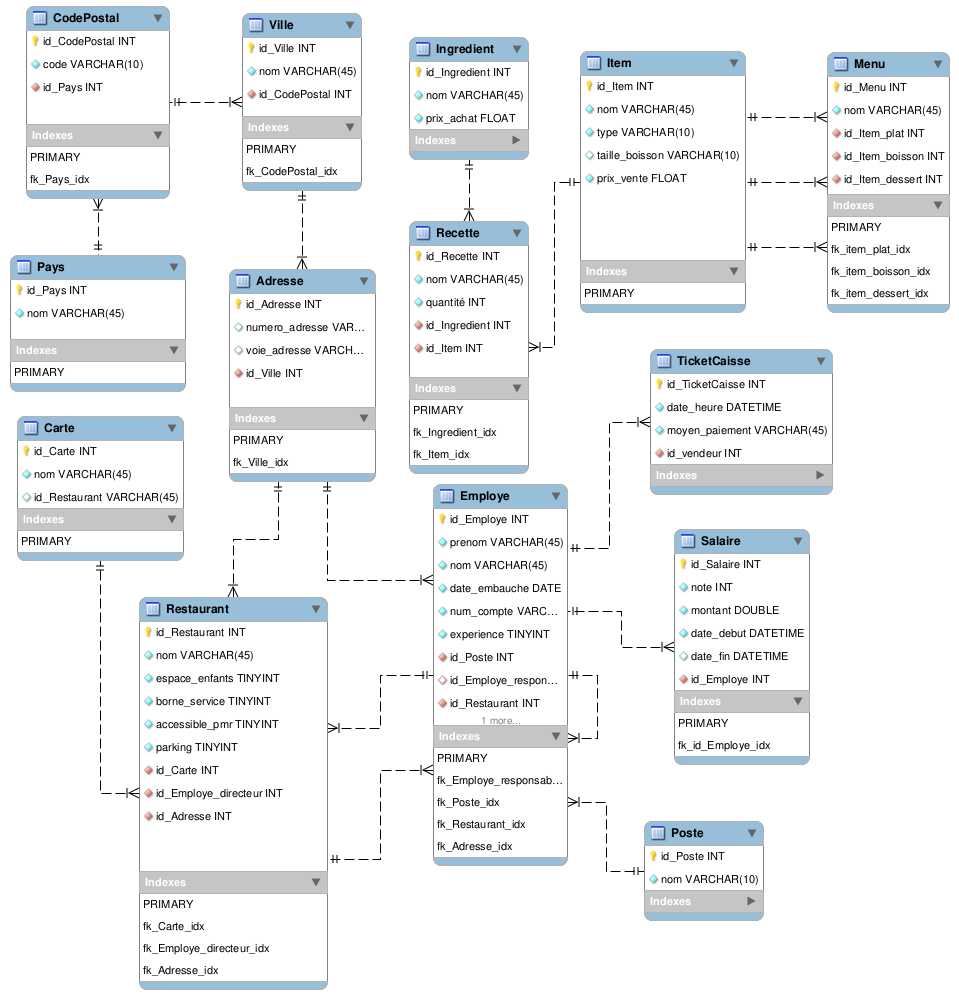
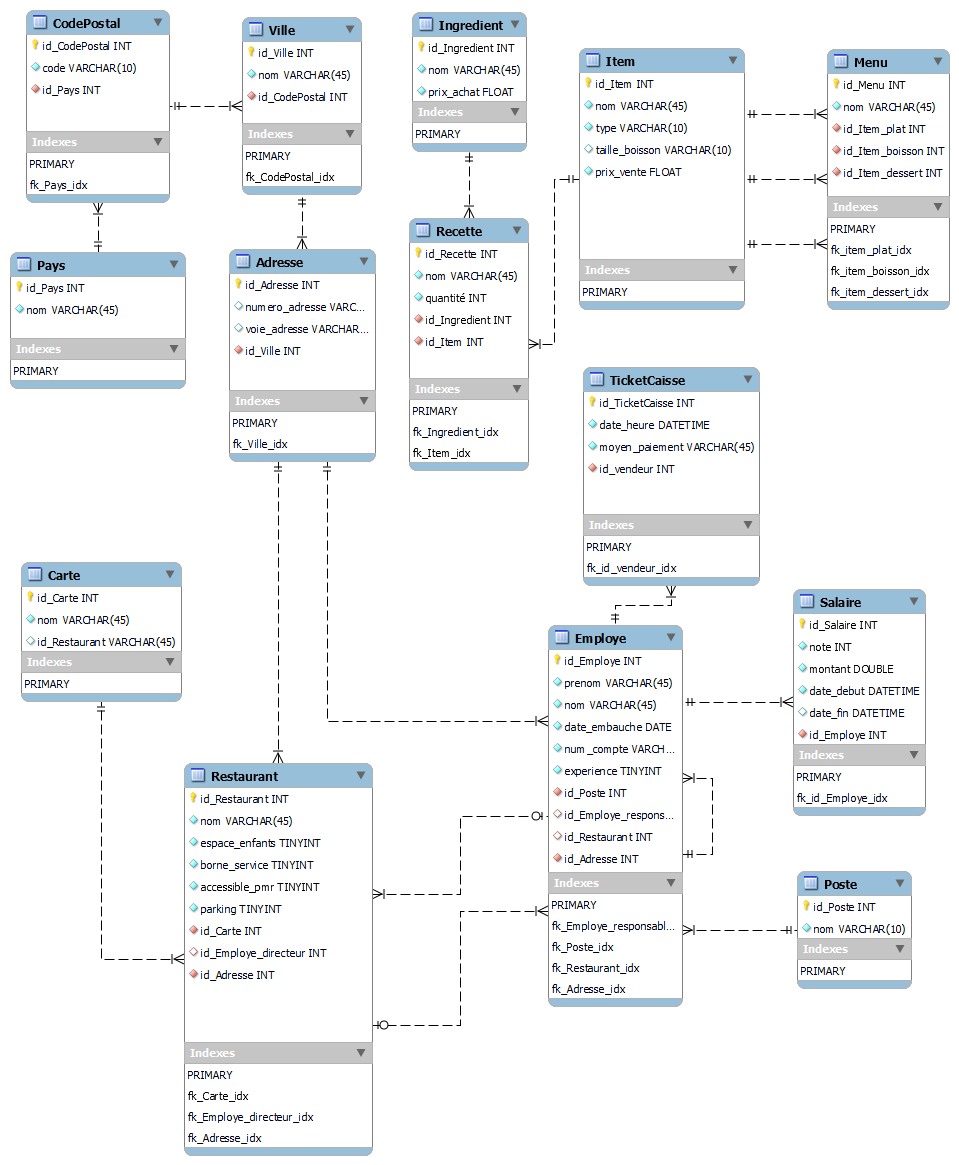
ajout script schéma MySQL + mise à jour EER

diff --git a/README.md b/README.md
@@ -1,12 +1,25 @@
 # Brief - Projet "restaurant_BI"
-## Réalisé par Elias et Cédric
-### Technologies utilisées : Python, Django, SQLite, SQLAlchemy
+## Réalisé par Elias et ZoLTaR
+## Technologies utilisées : Python, Django, SQLite, SQLAlchemy
+<br>
 
-#### Installation des prérequis
+### Installation des prérequis pour lancer l'application Web
 
-    conda create -n restaurant_BI
-    conda activate restaurant_BI
-    conda install sqlalchemy
-    conda install django
-    conda install python-dotenv
-    
+```sh
+conda create -n restaurant_BI
+conda activate restaurant_BI
+conda install sqlalchemy
+conda install django
+conda install python-dotenv
+```
+
+### Fichiers supplémentaires
+
+- Diagramme UML EER (schéma logique Entités-Relations étendu)
+<br>
+
+![alt text](restaurant_BI_EER.png "EER Model")
+
+- Création du schéma de données (compatible MySQL Server
+
+perl -ne 's/^\[(.+)\].*/`cat $1`/e;print' create_schema.sql "Script de génération de schéma MySQL")
